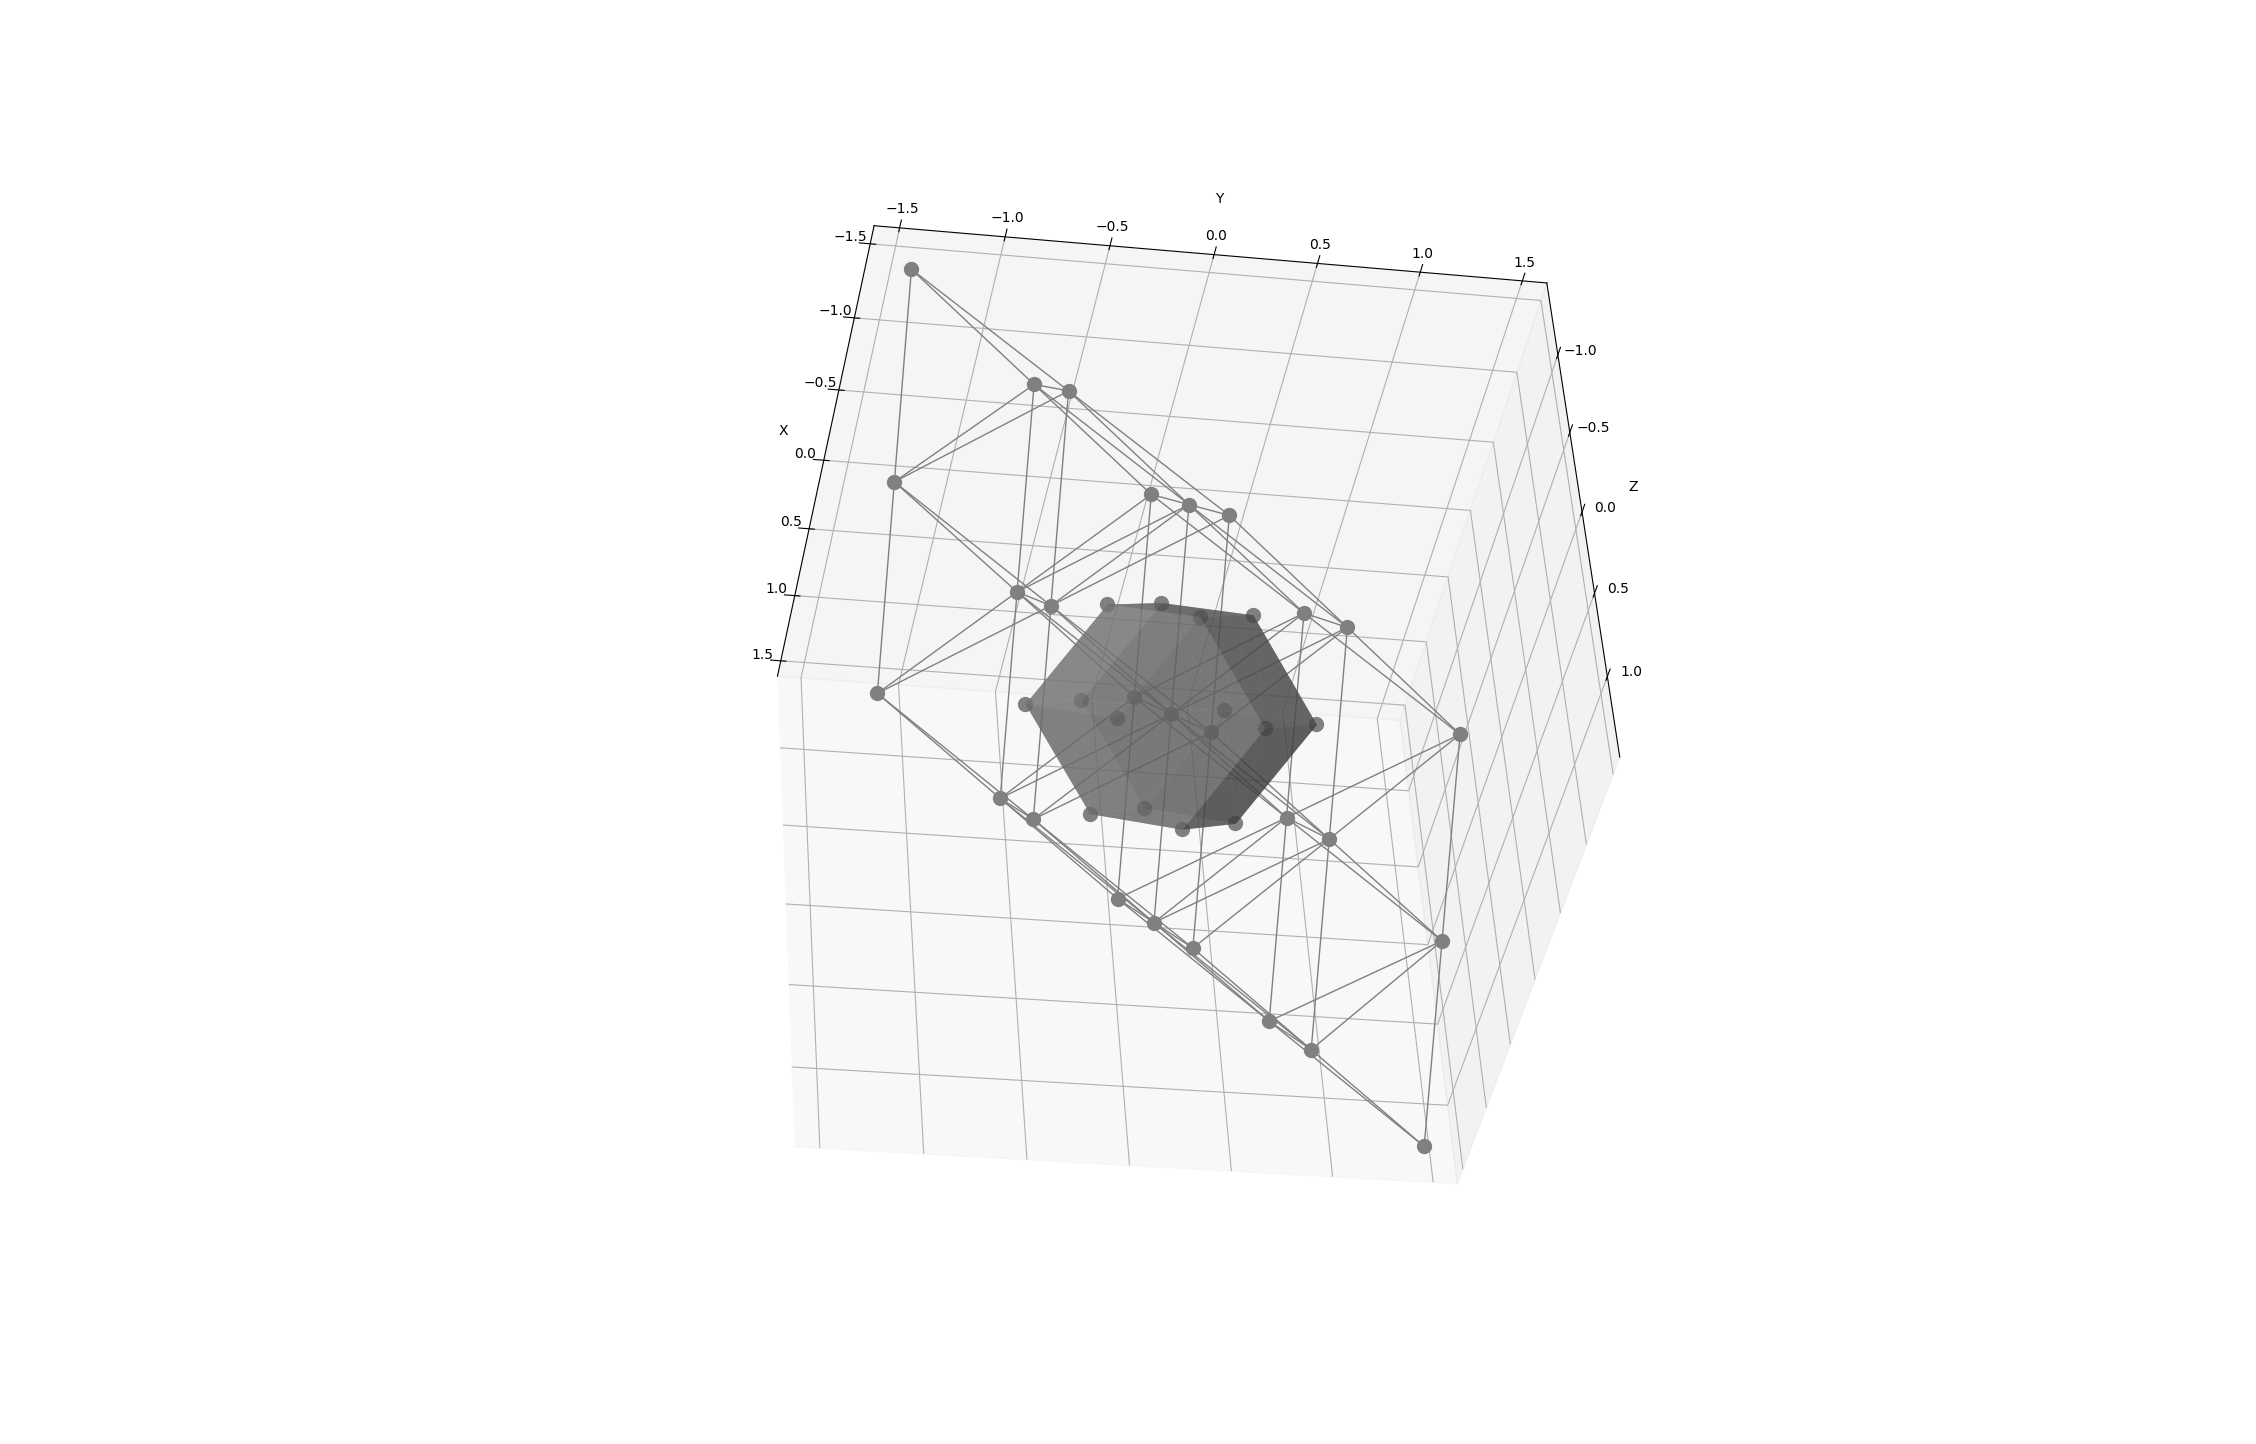
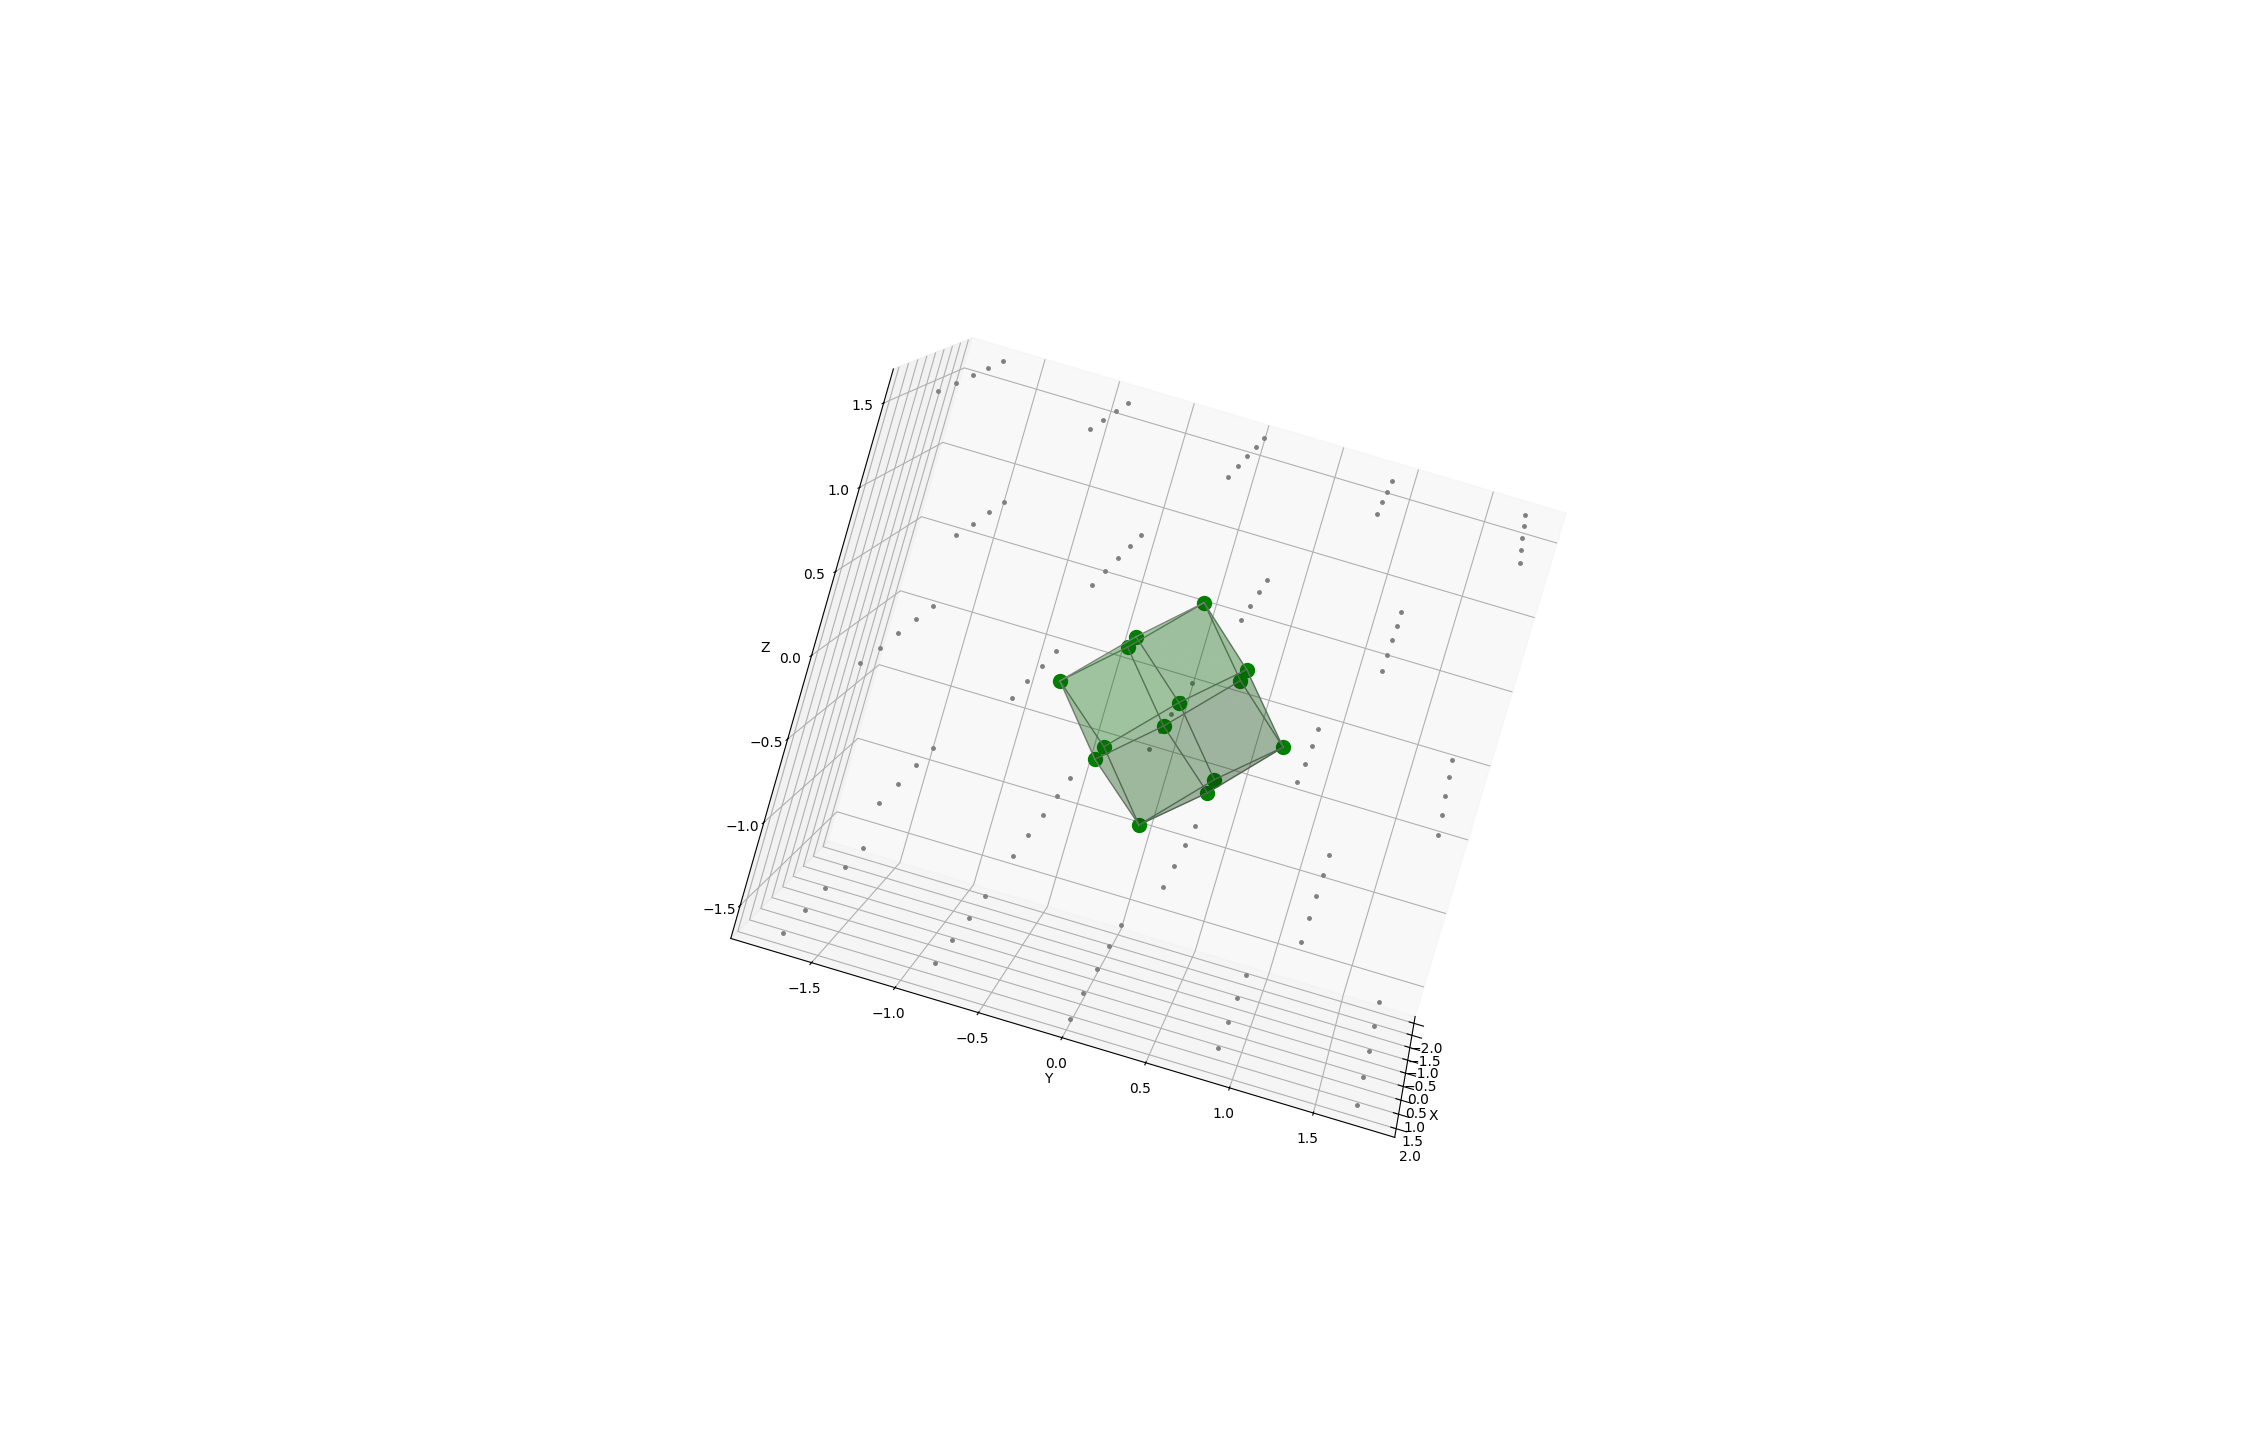
Changed examples

Changed region(s): [[0.3103, 0.1558, 0.7137, 0.8102], [0.6206, 0.187, 0.6826, 0.2181], [0.6826, 0.2805, 0.7137, 0.3116]]

diff --git a/README.md b/README.md
@@ -55,10 +55,11 @@ c.plot()
 
 ```python
 lettuce = fcc(range(-1, 2), -1.5, 1.5)
-
 result = voronoi(lettuce, pos(0, 0, 0), 1)
-result.foreach(Triangle, setter('opacity', 0.6))
-result @= lettuce
+result = auto_lines(result, math.sqrt(6) / 4)
+result.foreach(Triangle, setter('opacity', 0.2))
+result.foreach(Triangle, setter('color', 'green'))
+result.foreach(Point, setter('color', 'green'))
 result.plot()
 ```
 
@@ -68,10 +69,13 @@ result.plot()
 
 ```python
 lettuce = hcp(range(-1, 2), -1.5, 1.5)
-
 result = voronoi(lettuce, pos(0, 0, 0), 1)
-result.foreach(Triangle, setter('opacity', 1))
-result @= lettuce
+result = auto_lines(result, math.sqrt(6) / 4)
+result = auto_lines(result, math.sqrt(6) / 3)
+result = auto_lines(result, math.sqrt(1/6))
+result.foreach(Triangle, setter('opacity', 0.2))
+result.foreach(Triangle, setter('color', 'green'))
+result.foreach(Point, setter('color', 'green'))
 result.plot()
 ```
 
